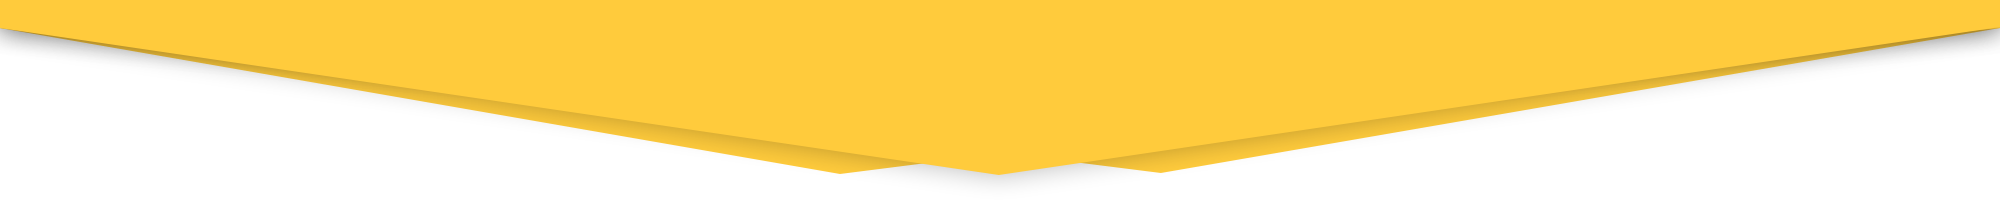
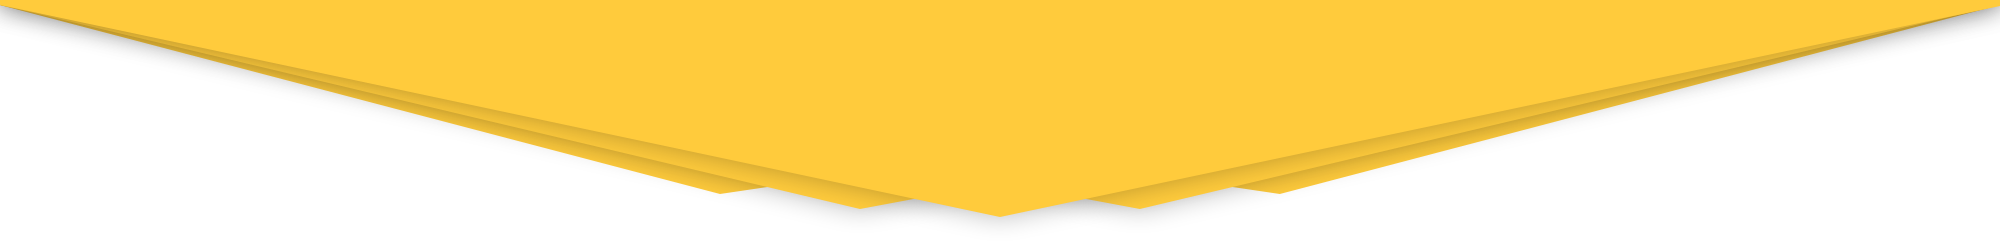
Легко купить

diff --git a/css/style.css b/css/style.css
@@ -1,1 +1,1 @@
-.form-bottom form input[type="submit"],.form-middle form input[type="submit"]{background:#e70710 url("../img/button-bg.png") center center no-repeat;box-shadow:0 0 0 3px rgba(0,0,0,0.15);border:none;border-bottom:4px solid #972428;background-size:cover;-webkit-transition:0.1s 0.1s ease-in-out;-moz-transition:0.1s 0.1s ease-in-out;transition:0.1s 0.1s ease-in-out;border-radius:3px;color:#fff;padding:10px 50px;height:40px;font-weight:600;display:block}.form-bottom form input[type="submit"]:hover,.form-middle form input[type="submit"]:hover{color:#fff;border-bottom:2px solid #961e23;background-position:45%}.form-bottom form input[type="submit"]:active,.form-middle form input[type="submit"]:active,.form-bottom form input[type="submit"]:focus,.form-middle form input[type="submit"]:focus{text-decoration:none;color:#fff;outline:none;border:none;background-position:43%}.form-bottom,.form-middle{border:1px solid #d0d0d0;padding:35px 43px;text-align:center;margin:0 auto 140px}.form-bottom h2,.form-middle h2{font-size:150%;font-weight:bold;margin-bottom:10px}.form-bottom h3,.form-middle h3{font-size:1em}.form-bottom form,.form-middle form{margin:21px auto 0}.form-bottom form input,.form-middle form input{height:40px;border-radius:3px;box-shadow:none;border:1px solid #858585;display:block;width:70%;margin:0 auto;padding-left:10px}@media (max-width: 480px){.form-bottom form input,.form-middle form input{width:80%}}.form-bottom form input[type="submit"],.form-middle form input[type="submit"]{margin:10px auto;width:70%}@media (max-width: 480px){.form-bottom form input[type="submit"],.form-middle form input[type="submit"]{width:80%;padding:10px}}@font-face{font-family:'Open Sans';font-weight:normal;font-style:normal;src:url("../fonts/OpenSans-Regular.ttf")}@font-face{font-family:'Open Sans';font-weight:600;font-style:normal;src:url("../fonts/OpenSans-Semibold.ttf")}@font-face{font-family:'Open Sans';font-weight:bold;font-style:normal;src:url("../fonts/OpenSans-Bold.ttf")}@font-face{font-family:'Open Sans';font-weight:normal;font-style:italic;src:url("../fonts/OpenSans-Italic.ttf")}@font-face{font-family:'Open Sans';font-weight:600;font-style:italic;src:url("../fonts/OpenSans-SemiboldItalic.ttf")}@font-face{font-family:'Open Sans';font-weight:bold;font-style:italic;src:url("../fonts/OpenSans-BoldItalic.ttf")}html,body,div,span,applet,object,iframe,h1,h2,h3,h4,h5,h6,p,blockquote,pre,a,abbr,acronym,address,big,cite,code,del,dfn,em,img,ins,kbd,q,s,samp,small,strike,strong,sub,sup,tt,var,b,u,i,center,dl,dt,dd,ol,ul,li,fieldset,form,label,legend,table,caption,tbody,tfoot,thead,tr,th,td,article,aside,canvas,details,embed,figure,figcaption,footer,header,hgroup,menu,nav,output,ruby,section,summary,time,mark,audio,video{margin:0;padding:0;border:0;font-size:100%;font:inherit;vertical-align:baseline}article,aside,details,figcaption,figure,footer,header,hgroup,menu,nav,section{display:block}body{line-height:1}ol,ul{list-style:none}blockquote,q{quotes:none}blockquote:before,blockquote:after,q:before,q:after{content:'';content:none}table{border-collapse:collapse;border-spacing:0}#wrapper{width:100%;overflow:hidden;font-family:"Open Sans"}h2{font-size:150%;font-weight:bold;text-align:center}.container{width:960px}@media (max-width: 960px){.container{width:100%}}.documents{position:relative;margin:0 auto}.documents .owl-carousel{margin:25px auto 75px}.documents .owl-carousel a[href$=".pdf"]{text-align:center;padding:205px 0 0;margin:0 auto;width:153px;height:auto;background:url("../img/doc.png") center top no-repeat;display:block;color:#000;font-size:93.75%;text-decoration:underline}.documents .owl-carousel a[href$=".pdf"]:hover{text-decoration:none}.main-footer{background:#000;height:110px;position:relative;z-index:1}.main-footer:before{content:'';width:50.3%;height:100px;position:absolute;-webkit-transform:rotate(-3deg);-moz-transform:rotate(-3deg);-ms-transform:rotate(-3deg);transform:rotate(-3deg);background:#000;top:-40px;left:0;z-index:-1}.main-footer:after{content:'';width:50.5%;height:100px;position:absolute;-webkit-transform:rotate(3deg);-moz-transform:rotate(3deg);-ms-transform:rotate(3deg);transform:rotate(3deg);background:#000;top:-40px;right:0;z-index:-1}.main-footer p{color:#fff;text-align:center;font-size:12px}.main-footer-header-bg{width:100%;position:absolute;left:50%;margin-left:-961px;top:-105px;z-index:-2;border-bottom:120px solid #d3d3d3;border-left:957px solid transparent;border-right:957px solid transparent}.form-bottom p{font-size:75%;text-align:center;margin:20px auto}.form-middle{border:none;margin:0 auto;background:url("../../img/form-bg.png") center center no-repeat;background-size:contain;padding-bottom:140px}.form-middle form{width:13.33333%;text-align:center}.form-middle form input,.form-middle form input[type="submit"]{width:100%}.form-middle p{font-size:75%;text-align:center;width:17.70833%;margin:20px auto}.main-header{background:url("../img/header-bg.png") center center no-repeat;height:700px}.logo{width:32.5%;position:relative;z-index:1;float:left}.logo:after{content:'';display:block;width:0;height:0;border-left:0 solid transparent;border-right:140px solid transparent;border-top:114px solid #111;position:absolute;right:-140px;top:0;z-index:1}.logo:before{content:'';display:block;background:url("../img/header-tiangle.png");width:135px;height:104px;right:-137px;bottom:7px;z-index:-1;position:absolute}.slogan{width:58.35%;background-color:#ffcb3c;background-size:cover;float:right;padding:25px 0 20px;font-size:125%;font-weight:bold;text-transform:uppercase;position:relative;z-index:1}.slogan:after{content:'';width:0;height:0;border-top:0 solid transparent;border-left:85px solid transparent;border-bottom:130px solid #ffcb3c;border-right:12px solid #ffcb3c;position:absolute;bottom:0;left:-62px;z-index:-1}.slogan h1{color:#000}.logo{background:#111;text-align:right;padding:30px 0 25px 0}.map{z-index:1;position:relative;margin-top:40px}.map iframe{width:100%;box-shadow:0 2px 15px 10px rgba(0,0,0,0.2);border:none !important;z-index:-1}.map h2{text-align:center;margin:70px auto;left:45%;width:10%;z-index:4;position:absolute}.map:before{content:'';display:block;width:50.50%;height:100px;background:#fff;-webkit-transform:rotate(3deg);-moz-transform:rotate(3deg);-ms-transform:rotate(3deg);transform:rotate(3deg);z-index:5;position:absolute;top:-80px;left:0;box-shadow:-3px 5px 2px 0 rgba(0,0,0,0.2);z-index:5}.map:after{content:'';display:block;width:50.50%;height:100px;background:#fff;-webkit-transform:rotate(-3deg);-moz-transform:rotate(-3deg);-ms-transform:rotate(-3deg);transform:rotate(-3deg);position:absolute;top:-80px;right:-3px;box-shadow:3px 5px 2px 0 rgba(0,0,0,0.2);z-index:3}.owl-theme .owl-controls .owl-buttons div{position:absolute}.owl-theme .owl-controls .owl-buttons .owl-prev{left:-45px;top:35%;opacity:.5}.owl-theme .owl-controls .owl-buttons .owl-prev .control-img{width:100% !important}.owl-theme .owl-controls .owl-buttons .owl-next{right:-45px;top:35%;opacity:.5}.owl-theme .owl-controls .owl-buttons .owl-next .control-img{width:100% !important}@media (max-width: 960px){.owl-theme .owl-controls .owl-buttons .owl-next{right:-15px}.owl-theme .owl-controls .owl-buttons .owl-prev{left:-15px}}.partners{position:relative;margin:0 auto}.partners img{display:block;margin:0 auto}.partners .owl-carousel{margin:45px auto 75px}.presentation .vidniy-logo{display:block;margin:0 auto 0 29%;top:-15px;text-align:center;position:relative;max-width:25%}.presentation .render{display:block;margin:0 auto;top:-155px;position:relative;max-width:100%}.reason{margin-bottom:100px}.reason-item{width:50%;float:left}.reason-item h2{font-size:150%;margin:0 auto 40px;font-weight:600}.reason-item h2 span{display:block;font-size:50%;text-transform:lowercase;margin-top:10px}.reason-item img{display:block;margin:0 auto;border-radius:50%;border:none;-webkit-transition:0.2s 0.1s ease-in-out;-moz-transition:0.2s 0.1s ease-in-out;transition:0.2s 0.1s ease-in-out}.reason-item img:hover{box-shadow:0 0 8px 4px rgba(0,0,0,0.3)}.reason-item ul{list-style-type:square;width:50%;margin:20px auto 0}.reason-item ul li{margin:10px auto;font-size:81.25%;font-weight:600}.reason-item:first-child h2{margin-bottom:20px}.tech-about-content{margin-bottom:71px;background:url("../img/about-bg.jpg") center bottom no-repeat;background-size:cover}.tech{margin:40px auto 100px}.tech-plane,.tech-materials{width:33.33333%;float:left;font-size:1em;font-weight:bold;margin:40px auto;padding:0 10px 0 0}.tech-plane img,.tech-materials img{display:block;margin:40px auto;max-width:100%}.tech-materials{width:66.66667%;padding:0 25px}.tech-materials-item{clear:both;margin:25px auto 45px}.tech-materials-item p{font-weight:normal;font-size:87.5%;vertical-align:bottom}.tech-materials-item img{padding:0 5px 0 0;margin:0 auto;display:inline-block;vertical-align:middle}.tech-materials-constr h3{font-size:1em;font-weight:bold;padding-top:40px}.tech-materials-constr ul{margin-top:16px;list-style:disc;float:left;width:50%;padding:0 15px 0 20px}.tech-materials-constr ul li{font-size:81.25%;line-height:1.5;font-weight:normal}.about{padding:90px 0 150px;color:#fff}.about h2{color:#fff;margin-bottom:35px}.about-text p{margin-bottom:30px;font-size:18px;text-align:center;line-height:1.2;font-weight:normal}
+.form-bottom form input[type="submit"],.form-middle form input[type="submit"]{background:#e70710 url("../img/button-bg.png") center center no-repeat;box-shadow:0 0 0 3px rgba(0,0,0,0.15);border:none;border-bottom:4px solid #972428;background-size:cover;-webkit-transition:0.1s 0.1s ease-in-out;-moz-transition:0.1s 0.1s ease-in-out;transition:0.1s 0.1s ease-in-out;border-radius:3px;color:#fff;padding:10px 50px;height:40px;font-weight:600;display:block}.form-bottom form input[type="submit"]:hover,.form-middle form input[type="submit"]:hover{color:#fff;border-bottom:2px solid #961e23;background-position:45%}.form-bottom form input[type="submit"]:active,.form-middle form input[type="submit"]:active,.form-bottom form input[type="submit"]:focus,.form-middle form input[type="submit"]:focus{text-decoration:none;color:#fff;outline:none;border:none;background-position:43%}.form-bottom,.form-middle{border:1px solid #d0d0d0;padding:35px 43px;text-align:center;margin:0 auto 140px}.form-bottom h2,.form-middle h2{font-size:150%;font-weight:bold;margin-bottom:10px}.form-bottom h3,.form-middle h3{font-size:1em}.form-bottom form,.form-middle form{margin:21px auto 0}.form-bottom form input,.form-middle form input{height:40px;border-radius:3px;box-shadow:none;border:1px solid #858585;display:block;width:70%;margin:0 auto;padding-left:10px}@media (max-width: 480px){.form-bottom form input,.form-middle form input{width:80%}}.form-bottom form input[type="submit"],.form-middle form input[type="submit"]{margin:10px auto;width:70%}@media (max-width: 480px){.form-bottom form input[type="submit"],.form-middle form input[type="submit"]{width:80%;padding:10px}}@font-face{font-family:'Open Sans';font-weight:normal;font-style:normal;src:url("../fonts/OpenSans-Regular.ttf")}@font-face{font-family:'Open Sans';font-weight:600;font-style:normal;src:url("../fonts/OpenSans-Semibold.ttf")}@font-face{font-family:'Open Sans';font-weight:bold;font-style:normal;src:url("../fonts/OpenSans-Bold.ttf")}@font-face{font-family:'Open Sans';font-weight:normal;font-style:italic;src:url("../fonts/OpenSans-Italic.ttf")}@font-face{font-family:'Open Sans';font-weight:600;font-style:italic;src:url("../fonts/OpenSans-SemiboldItalic.ttf")}@font-face{font-family:'Open Sans';font-weight:bold;font-style:italic;src:url("../fonts/OpenSans-BoldItalic.ttf")}html,body,div,span,applet,object,iframe,h1,h2,h3,h4,h5,h6,p,blockquote,pre,a,abbr,acronym,address,big,cite,code,del,dfn,em,img,ins,kbd,q,s,samp,small,strike,strong,sub,sup,tt,var,b,u,i,center,dl,dt,dd,ol,ul,li,fieldset,form,label,legend,table,caption,tbody,tfoot,thead,tr,th,td,article,aside,canvas,details,embed,figure,figcaption,footer,header,hgroup,menu,nav,output,ruby,section,summary,time,mark,audio,video{margin:0;padding:0;border:0;font-size:100%;font:inherit;vertical-align:baseline}article,aside,details,figcaption,figure,footer,header,hgroup,menu,nav,section{display:block}body{line-height:1}ol,ul{list-style:none}blockquote,q{quotes:none}blockquote:before,blockquote:after,q:before,q:after{content:'';content:none}table{border-collapse:collapse;border-spacing:0}#wrapper{width:100%;overflow:hidden;font-family:"Open Sans"}h2{font-size:150%;font-weight:bold;text-align:center}.container{width:960px}@media (max-width: 960px){.container{width:100%}}.buy{background:#ffcb3c;position:relative;margin-bottom:155px;top:-90px;z-index:-1}.buy h2{position:relative;top:-80px}.buy-item{width:20%;float:left}.buy-item img{display:block;margin:0 auto 10px}.buy-item h3{font-size:87.5%;font-weight:bold;text-align:center;text-transform:uppercase}.buy-item .divider{width:40%;height:1px;background:#000;margin:15px auto}.buy-item p{font-size:75%;text-align:center;width:80%;margin:0 auto;font-weight:600}.buy-item:first-child .divider{margin:34px auto 20px}.buy:after{content:'';display:block;background:transparent url("../img/buy-bg-bottom.png") center center no-repeat;background-size:cover;width:100%;height:220px;margin:0 auto;bottom:-220px;position:absolute;z-index:-1}.buy:before{content:'';display:block;background:transparent url("../img/buy-bg-top.png") center center no-repeat;background-size:cover;width:100%;height:200px;margin:0 auto;top:-200px;position:absolute}.documents{position:relative;margin:0 auto}.documents .owl-carousel{margin:25px auto 75px}.documents .owl-carousel a[href$=".pdf"]{text-align:center;padding:205px 0 0;margin:0 auto;width:153px;height:auto;background:url("../img/doc.png") center top no-repeat;display:block;color:#000;font-size:93.75%;text-decoration:underline}.documents .owl-carousel a[href$=".pdf"]:hover{text-decoration:none}.main-footer{background:#000;height:110px;position:relative;z-index:1}.main-footer:before{content:'';width:50.3%;height:100px;position:absolute;-webkit-transform:rotate(-3deg);-moz-transform:rotate(-3deg);-ms-transform:rotate(-3deg);transform:rotate(-3deg);background:#000;top:-40px;left:0;z-index:-1}.main-footer:after{content:'';width:50.5%;height:100px;position:absolute;-webkit-transform:rotate(3deg);-moz-transform:rotate(3deg);-ms-transform:rotate(3deg);transform:rotate(3deg);background:#000;top:-40px;right:0;z-index:-1}.main-footer p{color:#fff;text-align:center;font-size:12px}.main-footer-header-bg{width:100%;position:absolute;left:50%;margin-left:-961px;top:-105px;z-index:-2;border-bottom:120px solid #d3d3d3;border-left:957px solid transparent;border-right:957px solid transparent}.form-bottom p{font-size:75%;text-align:center;margin:20px auto}.form-middle{border:none;margin:0 auto;background:url("../../img/form-bg.png") center center no-repeat;background-size:contain;padding-bottom:140px}.form-middle form{width:13.33333%;text-align:center}.form-middle form input,.form-middle form input[type="submit"]{width:100%}.form-middle p{font-size:75%;text-align:center;width:17.70833%;margin:20px auto}.main-header{background:url("../img/header-bg.png") center center no-repeat;height:700px}.logo{width:32.5%;position:relative;z-index:1;float:left}.logo:after{content:'';display:block;width:0;height:0;border-left:0 solid transparent;border-right:140px solid transparent;border-top:114px solid #111;position:absolute;right:-140px;top:0;z-index:1}.logo:before{content:'';display:block;background:url("../img/header-tiangle.png");width:135px;height:104px;right:-137px;bottom:7px;z-index:-1;position:absolute}.slogan{width:58.35%;background-color:#ffcb3c;background-size:cover;float:right;padding:25px 0 20px;font-size:125%;font-weight:bold;text-transform:uppercase;position:relative;z-index:1}.slogan:after{content:'';width:0;height:0;border-top:0 solid transparent;border-left:85px solid transparent;border-bottom:130px solid #ffcb3c;border-right:12px solid #ffcb3c;position:absolute;bottom:0;left:-62px;z-index:-1}.slogan h1{color:#000}.logo{background:#111;text-align:right;padding:30px 0 25px 0}.map{z-index:1;position:relative;margin-top:40px}.map iframe{width:100%;box-shadow:0 2px 15px 10px rgba(0,0,0,0.2);border:none !important;z-index:-1}.map h2{text-align:center;margin:70px auto;left:45%;width:10%;z-index:4;position:absolute}.map:before{content:'';display:block;width:50.50%;height:100px;background:#fff;-webkit-transform:rotate(3deg);-moz-transform:rotate(3deg);-ms-transform:rotate(3deg);transform:rotate(3deg);z-index:5;position:absolute;top:-80px;left:0;box-shadow:-3px 5px 2px 0 rgba(0,0,0,0.2);z-index:5}.map:after{content:'';display:block;width:50.50%;height:100px;background:#fff;-webkit-transform:rotate(-3deg);-moz-transform:rotate(-3deg);-ms-transform:rotate(-3deg);transform:rotate(-3deg);position:absolute;top:-80px;right:-3px;box-shadow:3px 5px 2px 0 rgba(0,0,0,0.2);z-index:3}.owl-theme .owl-controls .owl-buttons div{position:absolute}.owl-theme .owl-controls .owl-buttons .owl-prev{left:-45px;top:35%;opacity:.5}.owl-theme .owl-controls .owl-buttons .owl-prev .control-img{width:100% !important}.owl-theme .owl-controls .owl-buttons .owl-next{right:-45px;top:35%;opacity:.5}.owl-theme .owl-controls .owl-buttons .owl-next .control-img{width:100% !important}@media (max-width: 960px){.owl-theme .owl-controls .owl-buttons .owl-next{right:-15px}.owl-theme .owl-controls .owl-buttons .owl-prev{left:-15px}}.partners{position:relative;margin:0 auto}.partners img{display:block;margin:0 auto}.partners .owl-carousel{margin:45px auto 75px}.presentation .vidniy-logo{display:block;margin:0 auto 0 29%;top:-15px;text-align:center;position:relative;max-width:25%}.presentation .render{display:block;margin:0 auto;top:-155px;position:relative;max-width:100%}.reason{margin-bottom:100px}.reason-item{width:50%;float:left}.reason-item h2{font-size:150%;margin:0 auto 40px;font-weight:600}.reason-item h2 span{display:block;font-size:50%;text-transform:lowercase;margin-top:10px}.reason-item img{display:block;margin:0 auto;border-radius:50%;border:none;-webkit-transition:0.2s 0.1s ease-in-out;-moz-transition:0.2s 0.1s ease-in-out;transition:0.2s 0.1s ease-in-out}.reason-item img:hover{box-shadow:0 0 8px 4px rgba(0,0,0,0.3)}.reason-item ul{list-style-type:square;width:50%;margin:20px auto 0}.reason-item ul li{margin:10px auto;font-size:81.25%;font-weight:600}.reason-item:first-child h2{margin-bottom:20px}.tech-about-content{margin-bottom:71px;background:url("../img/about-bg.jpg") center bottom no-repeat;background-size:cover}.tech{margin:40px auto 100px}.tech-plane,.tech-materials{width:33.33333%;float:left;font-size:1em;font-weight:bold;margin:40px auto;padding:0 10px 0 0}.tech-plane img,.tech-materials img{display:block;margin:40px auto;max-width:100%}.tech-materials{width:66.66667%;padding:0 25px}.tech-materials-item{clear:both;margin:25px auto 45px}.tech-materials-item p{font-weight:normal;font-size:87.5%;vertical-align:bottom}.tech-materials-item img{padding:0 5px 0 0;margin:0 auto;display:inline-block;vertical-align:middle}.tech-materials-constr h3{font-size:1em;font-weight:bold;padding-top:40px}.tech-materials-constr ul{margin-top:16px;list-style:disc;float:left;width:50%;padding:0 15px 0 20px}.tech-materials-constr ul li{font-size:81.25%;line-height:1.5;font-weight:normal}.about{padding:90px 0 150px;color:#fff}.about h2{color:#fff;margin-bottom:35px}.about-text p{margin-bottom:30px;font-size:18px;text-align:center;line-height:1.2;font-weight:normal}

diff --git a/index.html b/index.html
@@ -48,13 +48,40 @@
             </div>
           </div>
           <div class="row">
-            <div class="buy-item"></div>
-            <div class="buy-item"></div>
-            <div class="buy-item"></div>
-            <div class="buy-item"></div>
-            <div class="buy-item"></div>
+            <div class="buy-item">
+              <img src="img/ipoteka.png" alt="">
+              <h3>Ипотека</h3>
+              <div class="divider"></div>
+              <p>Ипотека всего от 9,5% годовых, работа с 23 банками-партнерами, индивидуальные ипотечные программы</p>
+            </div>
+            <div class="buy-item">
+              <img src="img/voennay.png" alt="">
+              <h3>Военная<br>ипотека</h3>
+              <div class="divider"></div>
+              <p>Для оформления достаточно паспорта и военного сертификата</p>
+            </div>
+            <div class="buy-item">
+              <img src="img/matcapital.png" alt="">
+              <h3>Материнский<br>капитал</h3>
+              <div class="divider"></div>
+              <p>Вашему ребенку больше 3-х лет? Купите квартиру в ЖК «Видный» по материнскому капиталу</p>
+            </div>
+            <div class="buy-item">
+              <img src="img/gosprogramma.png" alt="">
+              <h3>Государственная<br>программа</h3>
+              <div class="divider"></div>
+              <p>Госпрограмма «Жилье для российской семьи» - это квартиры по ценам ниже рыночных с ремонтом и сантехникой.</p>
+            </div>
+            <div class="buy-item">
+              <img src="img/rassrochka.png" alt="">
+              <h3>Беспроцентная<br>рассрочка</h3>
+              <div class="divider"></div>
+              <p>Рассрочка без процентов. Живите сейчас – платите в течение 6 месяцев.</p>
+            </div>
+            <div class="clearfix"></div>
           </div>
         </div>
+        <div class="clearfix"></div>
       </section>
     </div>
     <div class="row">

diff --git a/scss/modules/_buy.scss b/scss/modules/_buy.scss
@@ -1,0 +1,66 @@
+.buy {
+  background: #ffcb3c;
+  position: relative;
+  margin-bottom: 155px;
+  top: -90px;
+  z-index: -1;
+  h2 {
+    position: relative;
+    top: -80px;
+  }
+  &-item {
+    width: 20%;
+    float: left;
+    img {
+      display: block;
+      margin: 0 auto 10px;
+    }
+    h3 {
+      font-size: 14/16 * 100%;
+      font-weight: bold;
+      text-align: center;
+      text-transform: uppercase;
+    }
+    .divider {
+      width: 40%;
+      height: 1px;
+      background: #000;
+      margin: 15px auto;
+    }
+    p {
+      font-size: 12/16 * 100%;
+      text-align: center;
+      width: 80%;
+      margin: 0 auto;
+      font-weight: 600;
+    }
+    &:first-child {
+      .divider {
+        margin: 34px auto 20px;
+      }
+    }
+  }
+  &:after {
+    content: '';
+    display: block;
+    background: transparent url("../img/buy-bg-bottom.png") center center no-repeat;
+    background-size: cover;
+    width: 100%;
+    height: 220px;
+    margin: 0 auto;
+    bottom: -220px;
+    position: absolute;
+    z-index: -1;
+  }
+  &:before {
+    content: '';
+    display: block;
+    background: transparent url("../img/buy-bg-top.png") center center no-repeat;
+    background-size: cover;
+    width: 100%;
+    height: 200px;
+    margin: 0 auto;
+    top: -200px;
+    position: absolute;
+  }
+}
